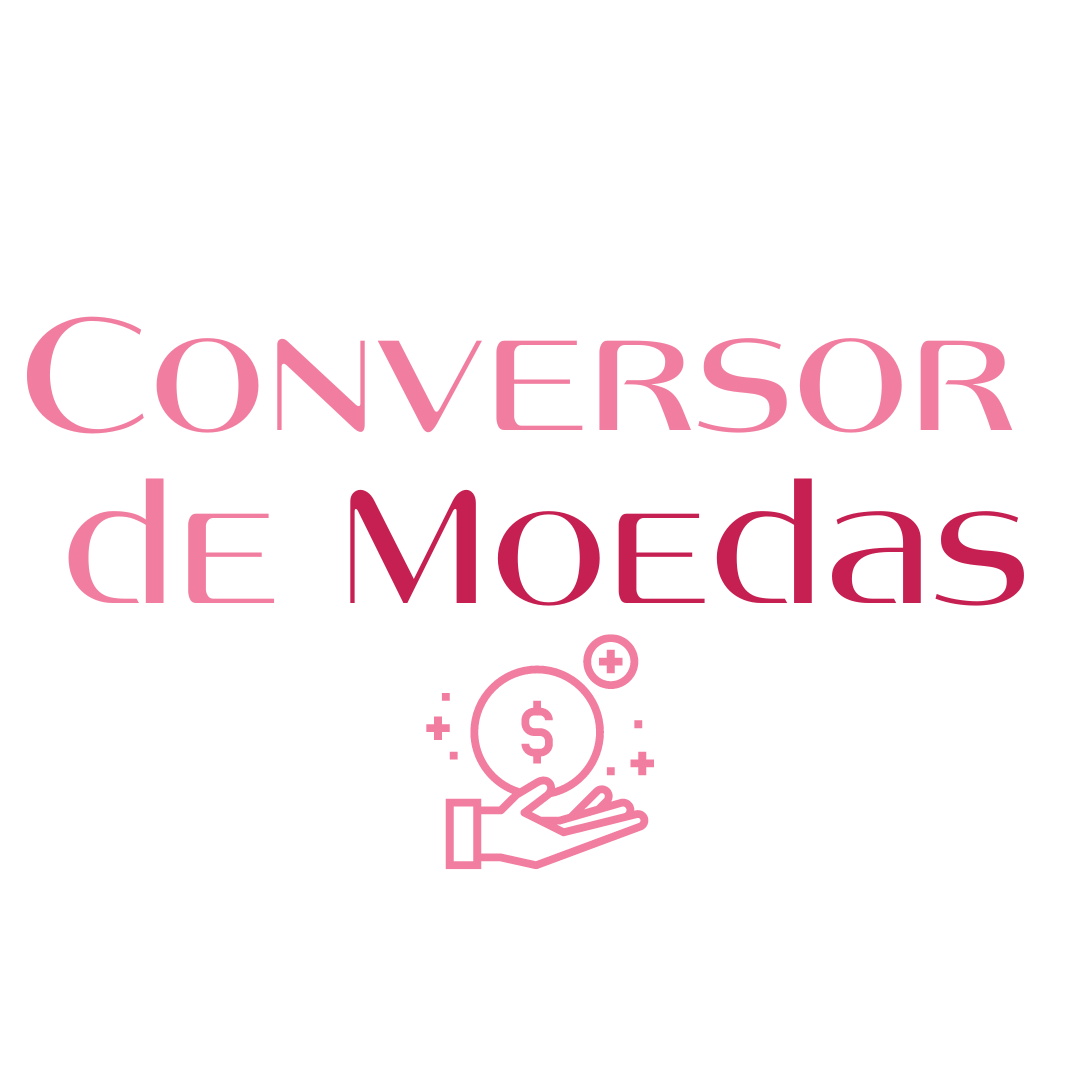
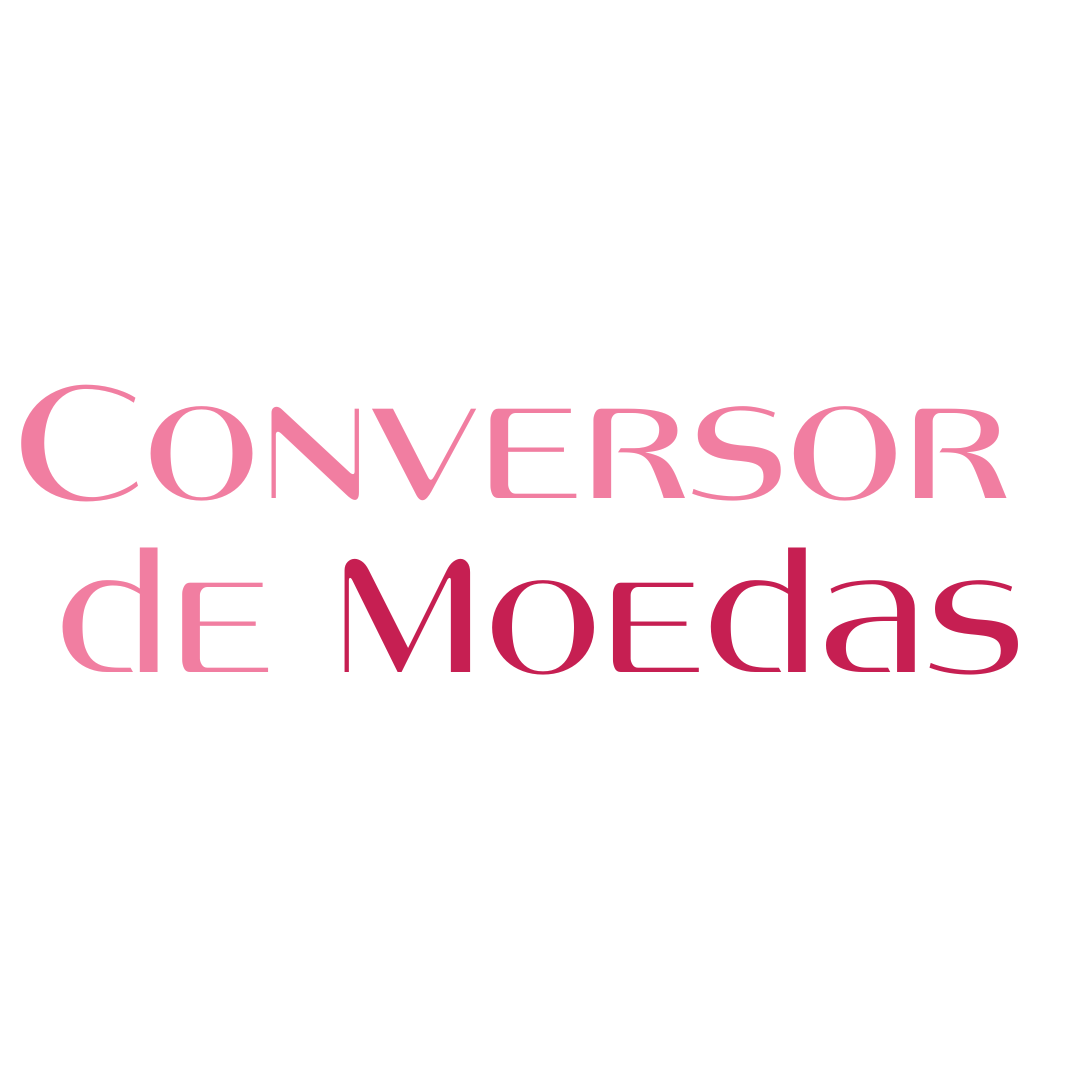
commit

Changed region(s): [[0.0, 0.3056, 0.9472, 0.825], [0.0611, 0.275, 0.1222, 0.3056]]

diff --git a/App.js b/App.js
@@ -12,7 +12,7 @@ import {Picker} from '@react-native-picker/picker';
 import styles from './globalStyles';
 import { AntDesign } from '@expo/vector-icons';
 
-
+import conversor from './assets/conversor.png';
 
 export default function App() {
   const [moedaOrigem, setMoedaOrigem] = useState('BRL')
@@ -40,16 +40,17 @@ export default function App() {
   }
   const limparResultado = () =>{
     setValorConvertido('')
-    setValorOriginal('')
+    setValorOriginal('33.33')
     setMoedaOrigem('BRL')
     setMoedaDestino('USD')
   }
   return (
     <View style={styles.container}>
       <View style={styles.content}>
-        <Text style={styles.title}>Conversor de moedas</Text>
+      <Image source={conversor} style={{width: 300, height: 100, alignItems: 'center', justifyContent: 'center', alignSelf: 'center'}} /> 
         <View style={{flexDirection:'row',justifyContent:'center',alignItems:'center'}}>
       <Text style={styles.texto}>Moeda 1</Text>
+      
       <View style={styles.viewInpu}>
       <View style={styles.bordaEscolha}>
           <Picker
@@ -89,10 +90,10 @@ export default function App() {
       </View>
       </View>
       <View style={{justifyContent:'space-around',alignItems:'center'}}>
-      <Pressable style={styles.botao} onPress={buscarHandle}><Text style={{color:"#fff"}}>Buscar valor</Text></Pressable> 
-      <Pressable style={styles.botao} onPress={limparResultado}><Text style={{color:"#fff"}}>Limpar valor</Text></Pressable>
+      <Pressable style={styles.botao} onPress={buscarHandle}><Text style={{color:"#fff", fontSize: 18,}}>Buscar valor</Text></Pressable> 
+      <Pressable style={styles.botao} onPress={limparResultado}><Text style={{color:"#fff", fontSize: 18,}}>Limpar valor</Text></Pressable>
       </View>
-      <Text style={{textAlign:'center', color:"#fff", marginTop: 30, fontSize: 20, backgroundColor: '#f17ea1', borderRadius: 10,}}>{`Resultado: ${valorConvertido}`}</Text>
+      <Text style={{textAlign:'center', color:"#fff", marginTop: 30, fontSize: 20, backgroundColor: '#C61F52',}}>{`Resultado: ${valorConvertido}`}</Text>
       <StatusBar style="auto" />
       </View>
     </View>

diff --git a/globalStyles.js b/globalStyles.js
@@ -1,3 +1,4 @@
+import { Center } from '@gluestack-ui/themed';
 import { StyleSheet } from 'react-native';
 
 export default styles = StyleSheet.create({
@@ -27,7 +28,7 @@ export default styles = StyleSheet.create({
     color: '#f17ea1',
   },
   texto: {
-    color: '#fff',
+    color: '#C61F52',
     fontSize: 20,
   },
   imagem: {
@@ -37,6 +38,10 @@ export default styles = StyleSheet.create({
     alignItens: 'center',
     alignSelf: 'center',
     paddingTop: 50,
+  },
+  imagem2: {
+    width: 1000,
+    height: 3100,
   },
   viewInput: {
     flexDirection: 'column',
@@ -53,7 +58,7 @@ export default styles = StyleSheet.create({
     width: 200,
     borderRadius: 15,
     marginTop: 20,
-    height: 30,
+    height: 40,
     justifyContent: 'center',
     alignItems: 'center',
     textAlign: 'center',
